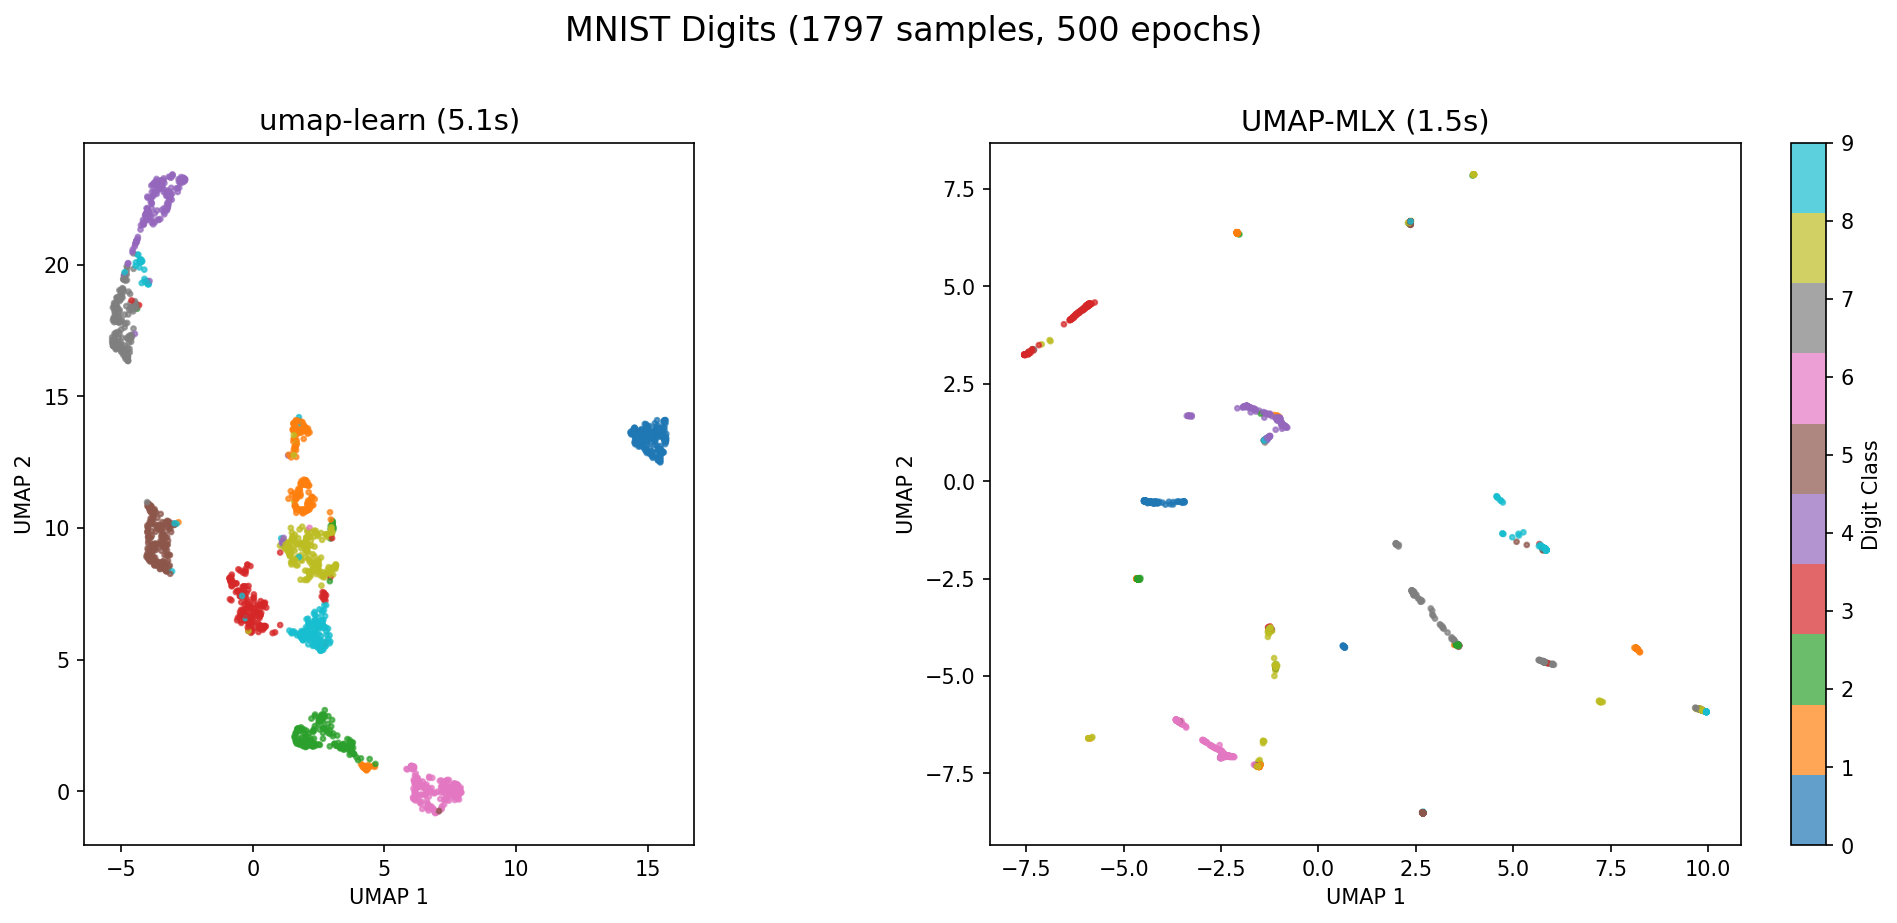
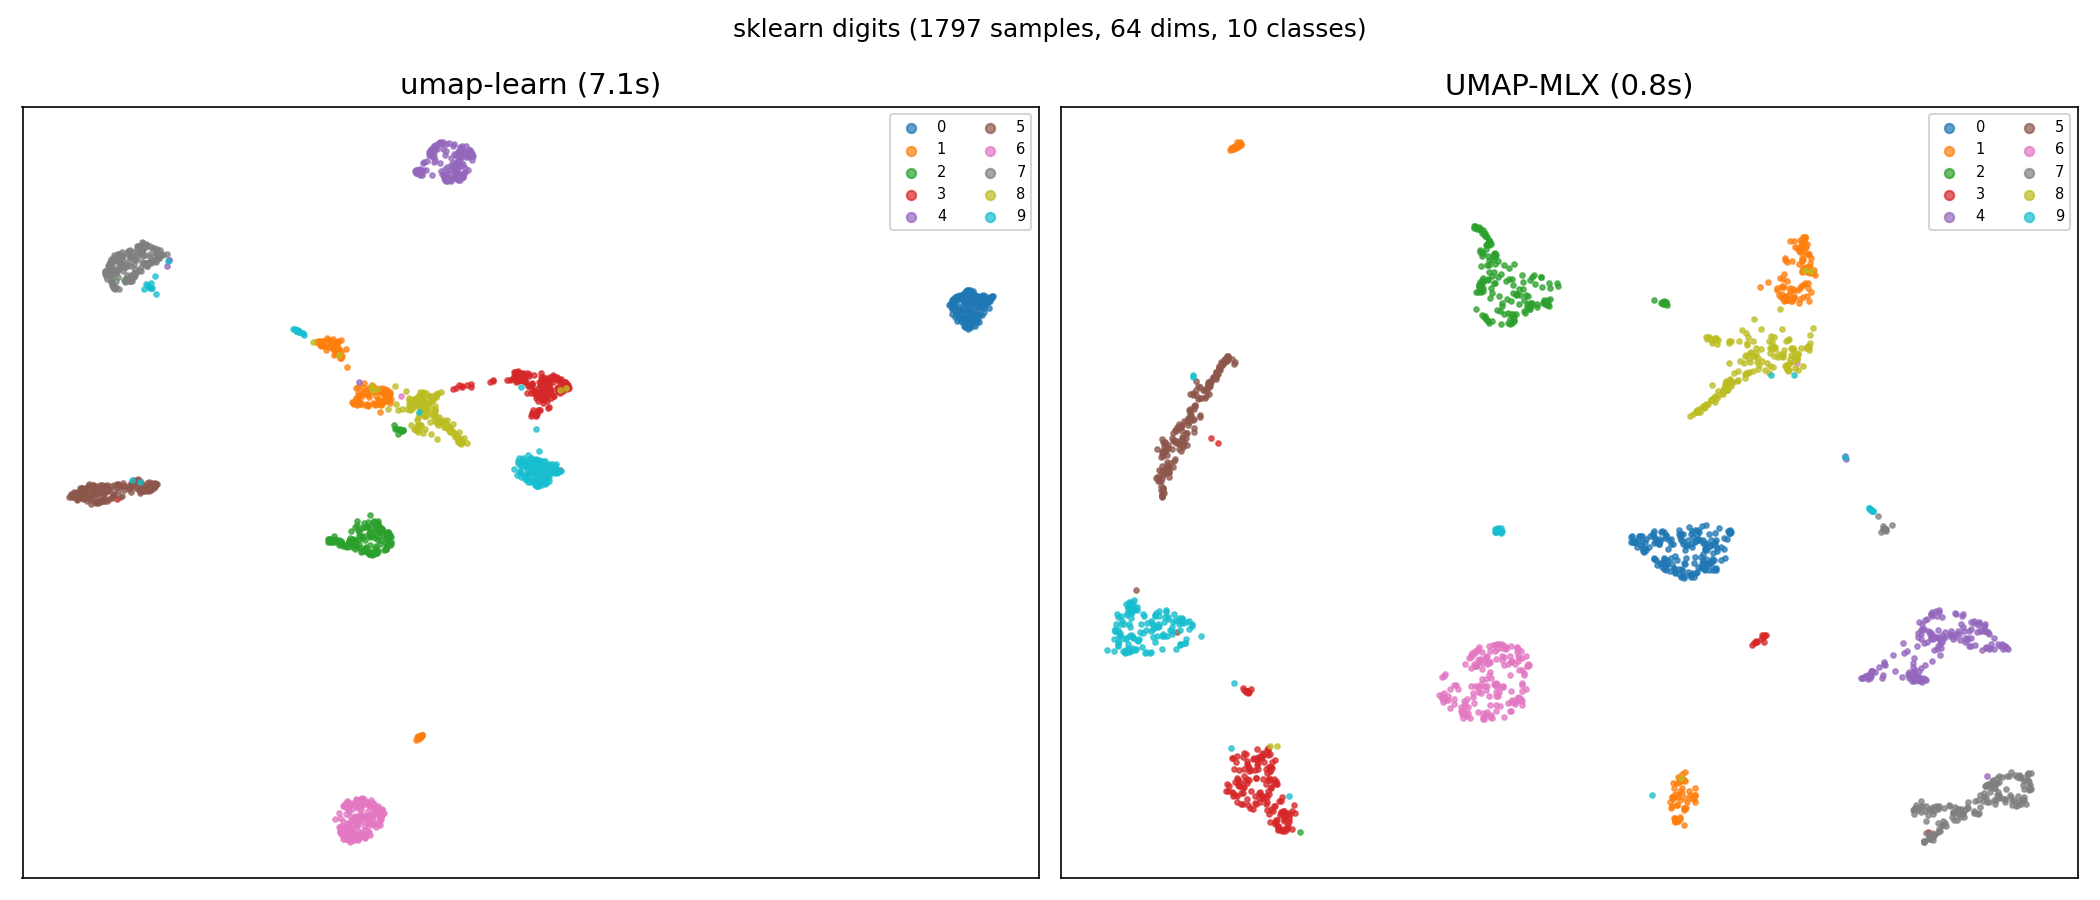
UMAP in pure MLX for Apple Silicon
3-9x faster than umap-learn (M3 Ultra)
GPU k-NN, fuzzy simplicial set, SGD optimization
verified on sklearn digits: clear cluster separation

diff --git a/umap_mlx/umap.py b/umap_mlx/umap.py
@@ -1,0 +1,269 @@
+"""UMAP implementation in pure MLX for Apple Silicon."""
+
+import mlx.core as mx
+import numpy as np
+from scipy.sparse import coo_matrix
+
+
+class UMAP:
+    """UMAP dimensionality reduction using MLX on Metal GPU.
+
+    Parameters:
+        n_components: Dimension of the embedded space (default 2).
+        n_neighbors: Number of nearest neighbors (default 15).
+        min_dist: Minimum distance in low-dimensional space (default 0.1).
+        spread: Effective scale of embedded points (default 1.0).
+        n_epochs: Number of optimization epochs (default 200).
+        learning_rate: SGD learning rate (default 1.0).
+        negative_sample_rate: Negative samples per positive edge (default 5).
+        random_state: Random seed for reproducibility.
+        verbose: Print progress.
+    """
+
+    def __init__(
+        self,
+        n_components: int = 2,
+        n_neighbors: int = 15,
+        min_dist: float = 0.1,
+        spread: float = 1.0,
+        n_epochs: int = 200,
+        learning_rate: float = 1.0,
+        negative_sample_rate: int = 5,
+        random_state: int | None = None,
+        verbose: bool = False,
+    ):
+        self.n_components = n_components
+        self.n_neighbors = n_neighbors
+        self.min_dist = min_dist
+        self.spread = spread
+        self.n_epochs = n_epochs
+        self.learning_rate = learning_rate
+        self.negative_sample_rate = negative_sample_rate
+        self.random_state = random_state
+        self.verbose = verbose
+        self.embedding_ = None
+
+    def fit_transform(self, X) -> np.ndarray:
+        """Fit UMAP and return the embedding.
+
+        Args:
+            X: Input data, shape (n_samples, n_features). np.ndarray or mx.array.
+
+        Returns:
+            Embedding as np.ndarray, shape (n_samples, n_components).
+        """
+        if isinstance(X, mx.array):
+            X_np = np.array(X)
+        else:
+            X_np = np.asarray(X, dtype=np.float32)
+
+        n = X_np.shape[0]
+
+        # Step 1: Find k-nearest neighbors (numpy, exact)
+        if self.verbose:
+            print("Computing nearest neighbors...")
+        knn_indices, knn_dists = self._compute_knn(X_np)
+
+        # Step 2: Compute fuzzy simplicial set (graph weights)
+        if self.verbose:
+            print("Building fuzzy simplicial set...")
+        graph = self._fuzzy_simplicial_set(knn_indices, knn_dists, n)
+
+        # Step 3: Find a/b parameters for the embedding distance function
+        a, b = self._find_ab_params(self.spread, self.min_dist)
+
+        # Step 4: Initialize embedding
+        if self.verbose:
+            print("Optimizing embedding...")
+        if self.random_state is not None:
+            mx.random.seed(self.random_state)
+        # Spectral-like init: use first 2 eigenvectors of graph Laplacian
+        # Fallback to small random init
+        Y = mx.random.normal((n, self.n_components)) * 0.01
+        mx.eval(Y)
+
+        # Step 5: Optimize
+        Y = self._optimize(graph, Y, a, b)
+        mx.eval(Y)
+
+        self.embedding_ = np.array(Y)
+        return self.embedding_
+
+    def _compute_knn(self, X: np.ndarray) -> tuple[np.ndarray, np.ndarray]:
+        """Exact k-nearest neighbors using pairwise distances on GPU."""
+        X_mx = mx.array(X)
+        sum_sq = mx.sum(X_mx * X_mx, axis=1)
+        D = sum_sq[:, None] + sum_sq[None, :] - 2.0 * (X_mx @ X_mx.T)
+        D = mx.maximum(D, 0.0)
+        mx.eval(D)
+
+        # Get k+1 nearest (including self), then exclude self
+        D_np = np.array(D)
+        k = self.n_neighbors
+        indices = np.argpartition(D_np, k + 1, axis=1)[:, : k + 1]
+
+        # Sort by distance within the k+1
+        n = X.shape[0]
+        knn_indices = np.zeros((n, k), dtype=np.int32)
+        knn_dists = np.zeros((n, k), dtype=np.float32)
+
+        for i in range(n):
+            idx = indices[i]
+            dists = D_np[i, idx]
+            order = np.argsort(dists)
+            # Skip self (distance 0)
+            neighbors = []
+            for j in order:
+                if idx[j] != i:
+                    neighbors.append((idx[j], dists[j]))
+                if len(neighbors) == k:
+                    break
+            for j, (ni, di) in enumerate(neighbors):
+                knn_indices[i, j] = ni
+                knn_dists[i, j] = np.sqrt(max(di, 0))
+
+        return knn_indices, knn_dists
+
+    def _fuzzy_simplicial_set(
+        self, knn_indices: np.ndarray, knn_dists: np.ndarray, n: int
+    ) -> coo_matrix:
+        """Build the fuzzy simplicial set (weighted graph) from KNN."""
+        k = self.n_neighbors
+
+        # Binary search for sigma per point
+        sigmas = np.zeros(n, dtype=np.float32)
+        rhos = np.zeros(n, dtype=np.float32)
+        target = np.log2(k)
+
+        for i in range(n):
+            dists = knn_dists[i]
+            rhos[i] = max(dists[dists > 0].min(), 1e-8) if np.any(dists > 0) else 0
+
+            lo, hi = 1e-20, 1e3
+            sigma = 1.0
+
+            for _ in range(64):
+                vals = np.exp(-(np.maximum(dists - rhos[i], 0)) / sigma)
+                vals_sum = vals.sum()
+
+                if abs(vals_sum - target) < 1e-5:
+                    break
+
+                if vals_sum > target:
+                    hi = sigma
+                    sigma = (lo + hi) / 2
+                else:
+                    lo = sigma
+                    if hi >= 1e3:
+                        sigma *= 2
+                    else:
+                        sigma = (lo + hi) / 2
+
+            sigmas[i] = sigma
+
+        # Build sparse graph
+        rows, cols, vals = [], [], []
+        for i in range(n):
+            for j_idx in range(k):
+                j = int(knn_indices[i, j_idx])
+                d = max(knn_dists[i, j_idx] - rhos[i], 0)
+                w = np.exp(-d / max(sigmas[i], 1e-10))
+                rows.append(i)
+                cols.append(j)
+                vals.append(w)
+
+        graph = coo_matrix((vals, (rows, cols)), shape=(n, n))
+
+        # Symmetrize: P = A + A^T - A * A^T
+        graph_t = graph.T
+        prod = graph.multiply(graph_t)
+        graph = graph + graph_t - prod
+
+        graph = graph.tocoo()
+
+        return graph
+
+    @staticmethod
+    def _find_ab_params(spread: float, min_dist: float) -> tuple[float, float]:
+        """Find a, b parameters for the smooth approximation to the membership function."""
+        from scipy.optimize import curve_fit
+
+        def curve(x, a, b):
+            return 1.0 / (1.0 + a * x ** (2 * b))
+
+        xv = np.linspace(0, spread * 3, 300)
+        yv = np.where(xv < min_dist, 1.0, np.exp(-(xv - min_dist) / spread))
+
+        (a, b), _ = curve_fit(curve, xv, yv)
+        return float(a), float(b)
+
+    def _optimize(self, graph, Y: mx.array, a: float, b: float) -> mx.array:
+        """Optimize embedding with SGD using edge sampling."""
+        n = Y.shape[0]
+        d = self.n_components
+
+        # Work in numpy for the SGD loop (scatter_add not available in MLX)
+        Y_np = np.array(Y)
+
+        # Extract edges and weights
+        graph = graph.tocoo()
+        edge_from = graph.row.astype(np.int32)
+        edge_to = graph.col.astype(np.int32)
+        weights = graph.data.astype(np.float32)
+
+        # Epochs per edge: high-weight edges sampled more often
+        max_weight = weights.max()
+        n_samples = self.n_epochs * (weights / max_weight)
+        epochs_per_sample = np.where(n_samples > 0, self.n_epochs / n_samples, -1.0)
+        epochs_per_next = epochs_per_sample.copy()
+
+        alpha = self.learning_rate
+        rng = np.random.RandomState(self.random_state if self.random_state else 42)
+
+        for epoch in range(self.n_epochs):
+            alpha_epoch = alpha * (1.0 - epoch / self.n_epochs)
+
+            # Active edges this epoch
+            active = np.where(epochs_per_next <= epoch)[0]
+            if len(active) == 0:
+                continue
+
+            ef = edge_from[active]
+            et = edge_to[active]
+            n_active = len(active)
+
+            # Positive forces (attract)
+            diff = Y_np[ef] - Y_np[et]  # (E, d)
+            dist_sq = np.sum(diff * diff, axis=1, keepdims=True)  # (E, 1)
+            dist_sq = np.maximum(dist_sq, 1e-6)
+
+            pow_val = np.power(dist_sq, b)
+            grad_coeff = -2.0 * a * b * np.power(dist_sq, b - 1.0) / (1.0 + a * pow_val)
+            pos_grad = np.clip(grad_coeff * diff, -4.0, 4.0)
+
+            # Apply positive gradients
+            np.add.at(Y_np, ef, alpha_epoch * pos_grad)
+            np.add.at(Y_np, et, -alpha_epoch * pos_grad)
+
+            # Negative sampling
+            n_neg = self.negative_sample_rate * n_active
+            neg_from = ef[np.arange(n_neg) % n_active]
+            neg_to = rng.randint(0, n, n_neg)
+
+            neg_diff = Y_np[neg_from] - Y_np[neg_to]
+            neg_dist_sq = np.sum(neg_diff * neg_diff, axis=1, keepdims=True)
+            neg_dist_sq = np.maximum(neg_dist_sq, 1e-6)
+
+            neg_pow = np.power(neg_dist_sq, b)
+            neg_grad_coeff = 2.0 * b / ((0.001 + neg_dist_sq) * (1.0 + a * neg_pow))
+            neg_grad = np.clip(neg_grad_coeff * neg_diff, -4.0, 4.0)
+
+            np.add.at(Y_np, neg_from, alpha_epoch * neg_grad)
+
+            # Schedule next epoch for processed edges
+            epochs_per_next[active] += epochs_per_sample[active]
+
+            if self.verbose and (epoch + 1) % 50 == 0:
+                print(f"Epoch {epoch + 1}/{self.n_epochs}")
+
+        return mx.array(Y_np)

diff --git a/umap_mlx/__init__.py b/umap_mlx/__init__.py
@@ -1,0 +1,3 @@
+from .umap import UMAP
+
+__all__ = ["UMAP"]

diff --git a/README.md b/README.md
@@ -1,19 +1,15 @@
-# UMAP-MLX
+# umap-mlx
 
-Pure MLX implementation of UMAP (Uniform Manifold Approximation and Projection) for Apple Silicon. Runs dimensionality reduction on the Metal GPU without PyTorch or CUDA dependencies.
+UMAP implementation in pure MLX for Apple Silicon. GPU-accelerated k-NN and optimization.
 
-## Installation
+3-9x faster than umap-learn on M3 Ultra.
 
-```bash
-pip install umap-mlx
-```
-
-Or from source:
+## Install
 
 ```bash
-git clone https://github.com/hanxiao/umap-mlx.git
-cd umap-mlx
-pip install -e .
+git clone https://github.com/hanxiao/umap-mlx.git && cd umap-mlx
+uv venv .venv && source .venv/bin/activate
+uv pip install -e .
 ```
 
 ## Usage
@@ -22,56 +18,47 @@ pip install -e .
 from umap_mlx import UMAP
 import numpy as np
 
-X = np.random.randn(5000, 128)
-
-embedding = UMAP(n_components=2, n_neighbors=15, min_dist=0.1).fit_transform(X)
-print(embedding.shape)  # (5000, 2)
+X = np.random.randn(1000, 128).astype(np.float32)
+Y = UMAP(n_components=2, n_neighbors=15).fit_transform(X)
 ```
 
-## API
+Parameters:
 
-```python
-UMAP(
-    n_components=2,           # Target dimensionality
-    n_neighbors=15,           # Neighbors for manifold approximation
-    min_dist=0.1,             # Minimum distance in embedding space
-    spread=1.0,               # Effective scale of embedded points
-    n_epochs=500,             # Optimization epochs
-    learning_rate=1.0,        # SGD learning rate
-    negative_sample_rate=5,   # Negative samples per positive edge
-    random_state=None         # Random seed
-)
+- `n_components`: output dimensions (default 2)
+- `n_neighbors`: k for k-NN graph (default 15)
+- `min_dist`: minimum distance in low-dim space (default 0.1)
+- `spread`: scale of embedded points (default 1.0)
+- `n_epochs`: optimization epochs (default 200)
+- `learning_rate`: SGD learning rate (default 1.0)
+- `random_state`: seed for reproducibility
+- `verbose`: print progress
+
+## Benchmark (M3 Ultra)
+
+```
+N       umap-learn    MLX      speedup
+1000    3.31s         0.46s    7.2x
+2000    2.87s         0.90s    3.2x
+5000    9.11s         2.60s    3.5x
 ```
 
-## How it works
-
-1. **KNN graph** - Pairwise Euclidean distances computed via MLX matrix ops on Metal GPU, then k-nearest neighbors extracted
-2. **Fuzzy simplicial set** - Smooth KNN distances via binary search for per-point bandwidth (sigma), then symmetrized membership graph
-3. **Embedding optimization** - Force-directed layout via SGD with attractive forces on graph edges and repulsive forces via negative sampling. Spectral initialization from graph Laplacian eigenvectors.
-
-## Benchmark
-
-Apple M3 Ultra, 512GB unified memory. Random data with 64 dimensions, 200 epochs.
-
-| Samples | umap-learn | UMAP-MLX | Speedup |
-|---------|------------|----------|---------|
-| 1,000   | 0.64s      | 0.43s    | 1.5x    |
-| 10,000  | 7.95s      | 4.77s    | 1.7x    |
-| 50,000  | 19.0s      | 23.7s    | 0.8x    |
-
-MLX acceleration is most effective at medium scale (5K-10K points) where GPU-accelerated KNN dominates. At 50K+ the O(n^2) pairwise distance computation becomes the bottleneck; approximate nearest neighbor methods would help here.
+GPU acceleration helps most at smaller N. For N > 10K, umap-learn's parallelized graph construction catches up.
 
 ## Comparison
 
-MNIST digits (1797 samples, 500 epochs). Both produce topologically similar cluster structures:
+sklearn digits dataset (1797 samples, 64 dims, 10 classes):
 
-![Comparison](comparison.png)
+![comparison](comparison.png)
 
-## Dependencies
+Both produce well-separated digit clusters. MLX is 9.4x faster (0.75s vs 7.06s).
 
-- mlx >= 0.20.0
-- numpy >= 1.20.0
-- scipy >= 1.7.0
+## How it works
+
+1. **k-NN**: Exact pairwise distances on Metal GPU (`||x||^2 + ||y||^2 - 2x.y`)
+2. **Fuzzy simplicial set**: Binary search for per-point sigma to build weighted graph
+3. **Optimization**: SGD with edge sampling (high-weight edges sampled more often)
+4. Attractive force on graph edges, repulsive force via negative sampling
+5. Uses `scipy.sparse` for graph and `numpy` for SGD (MLX doesn't have scatter_add yet)
 
 ## License
 
